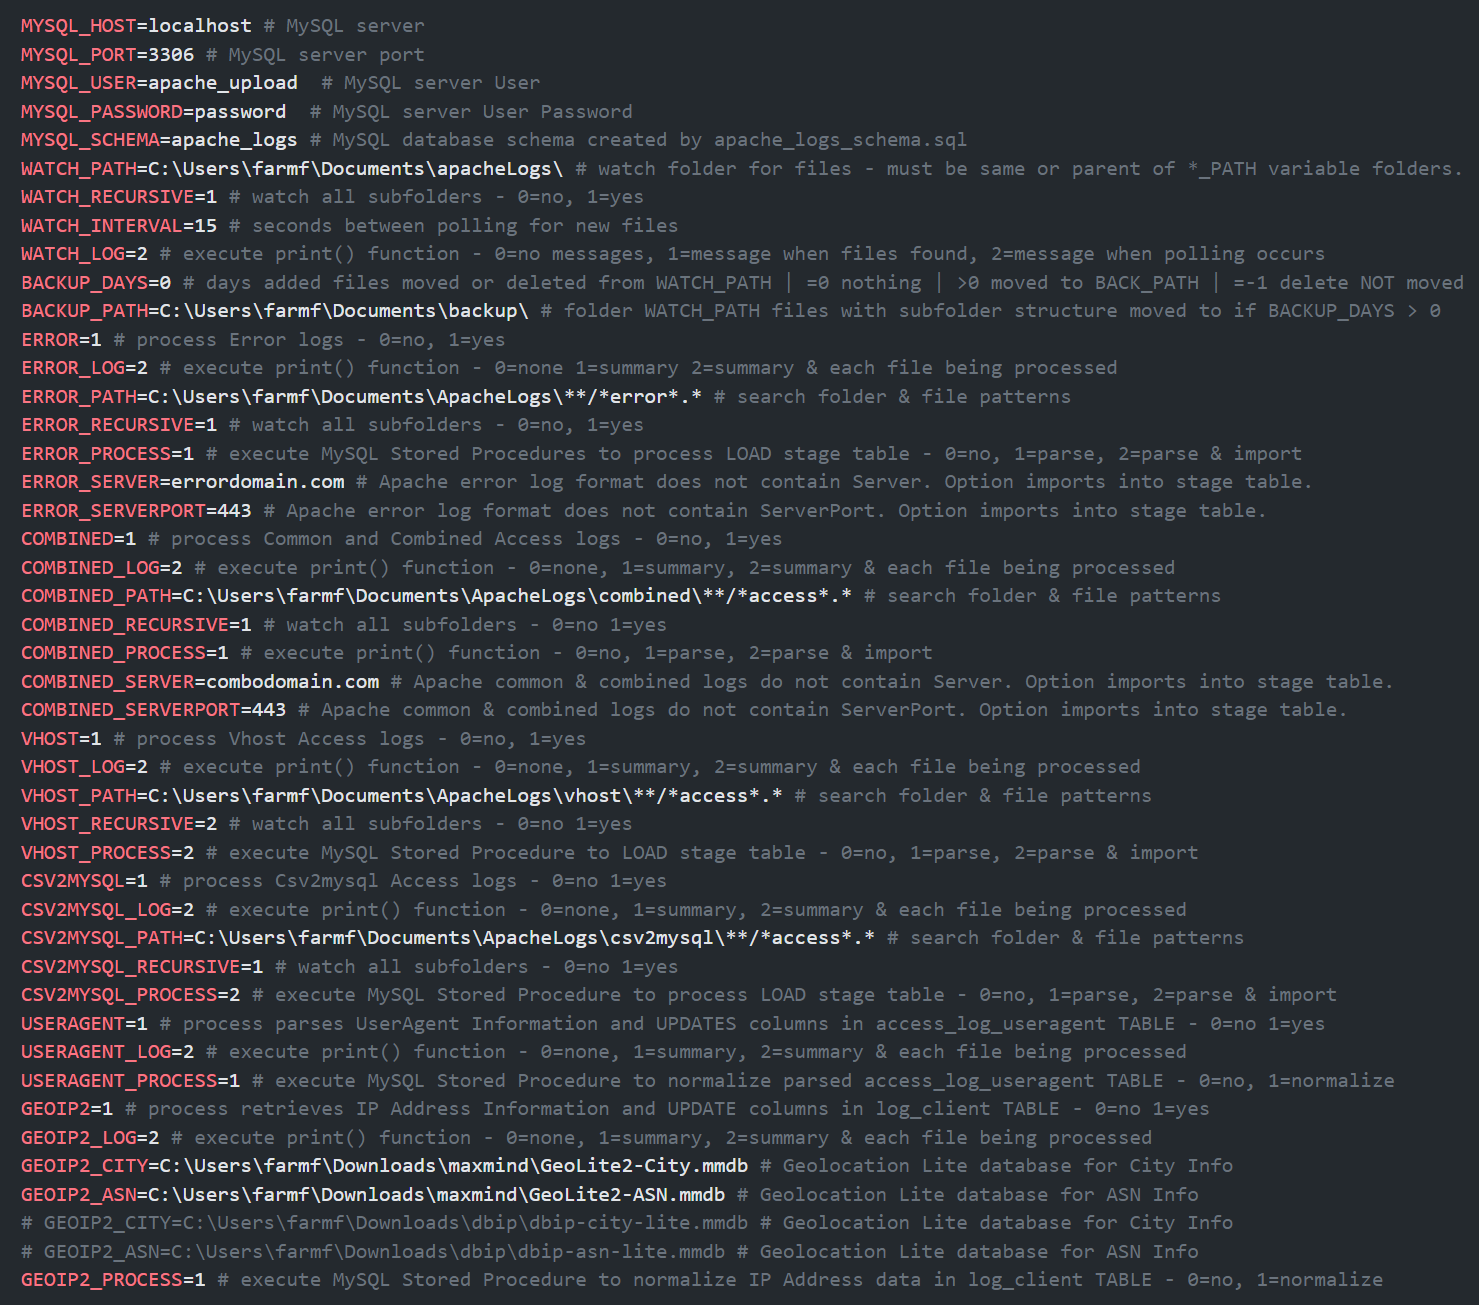
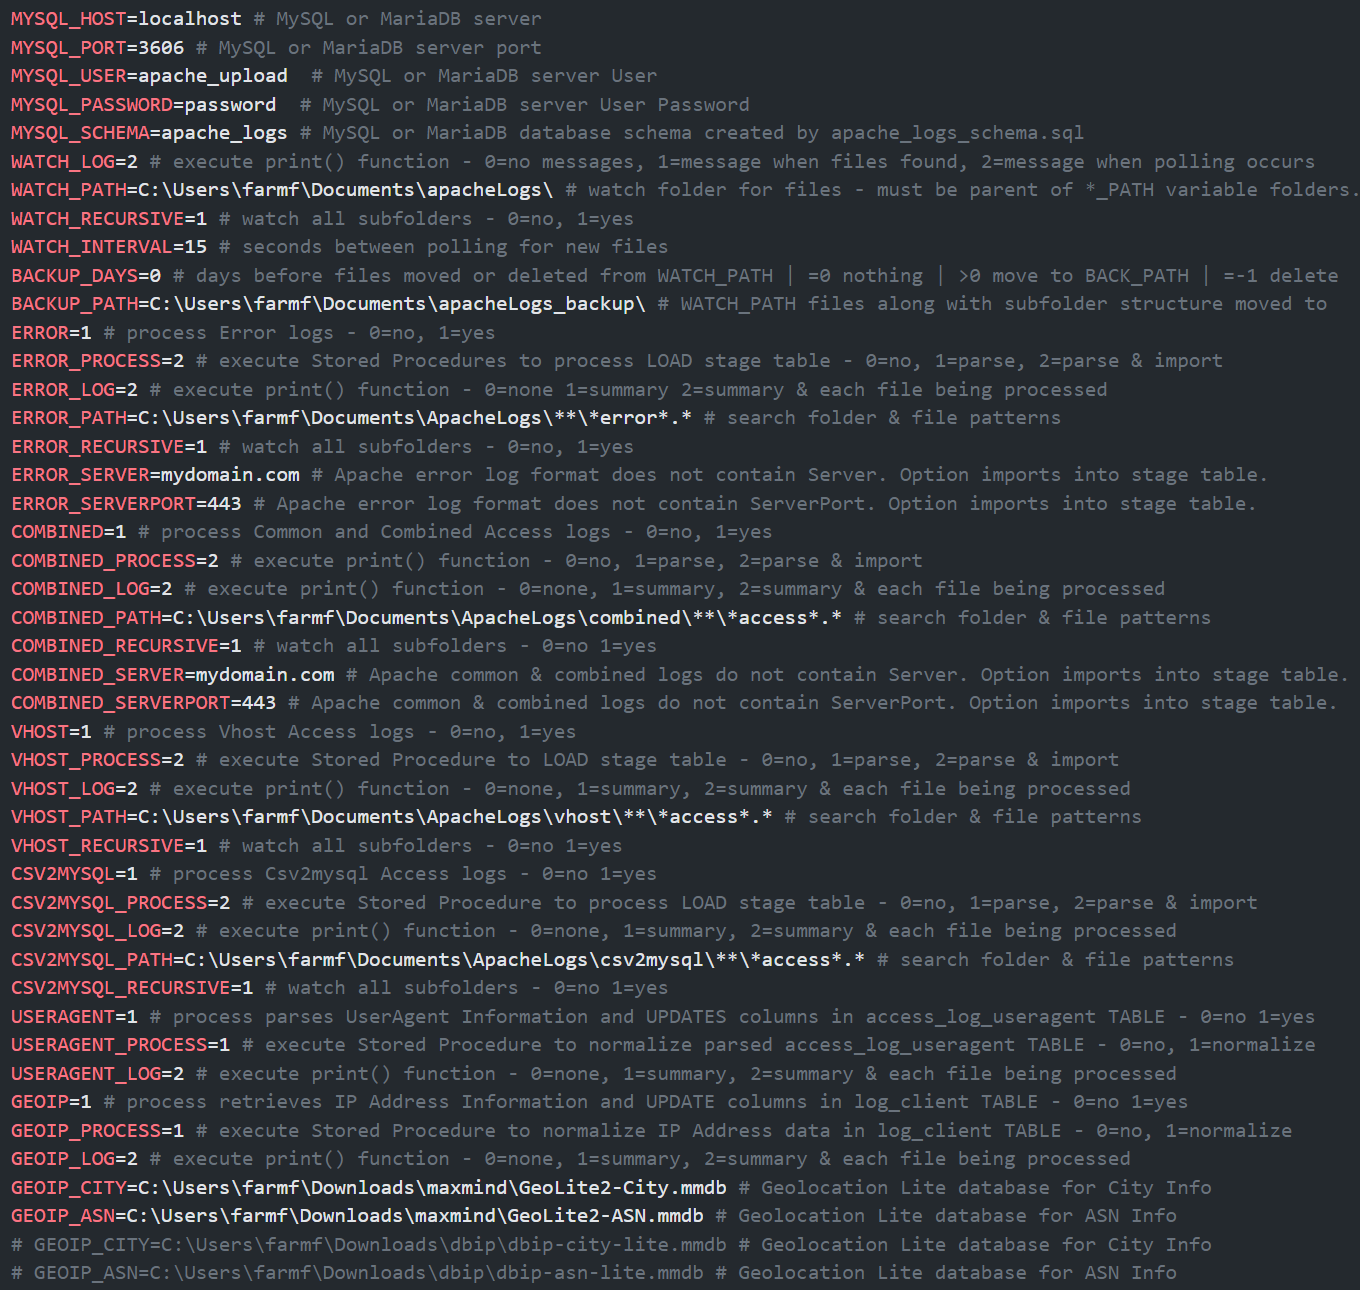
update of 4 files preparing for new release

Changed region(s): [[0.0, 0.0, 0.9882, 0.9922]]

diff --git a/.github/README.md b/.github/README.md
@@ -185,8 +185,8 @@ UPDATE apache_logs.import_file SET server_name='farmfreshsoftware.com', server_p
 UPDATE apache_logs.import_file SET server_name='farmwork.app', server_port=443 WHERE server_name IS NULL AND name LIKE '%farmwork%';
 UPDATE apache_logs.import_file SET server_name='ip255-255-255-255.us-east.com', server_port=443 WHERE server_name IS NULL AND name LIKE '%error%';
 ```
-## Required Python Modules
-Python module links & install command lines for each platform. Single quotes around 'PyMySQL[rsa]' module are required on macOS. The simplest installation option is run the command line under 1. Python Steps below.
+## Required Python Packages
+Python module links & install command lines for each package. Single quotes around 'PyMySQL[rsa]' package are required on macOS. The simplest installation option is run the command line under 1. Python Steps below.
 |Python Package|Installation Command|GitHub Repository|
 |--------------|---------------|------------|
 |[PyMySQL](https://pypi.org/project/PyMySQL/)|python -m pip install PyMySQL[rsa]|[PyMySQL/PyMySQL](https://github.com/PyMySQL/PyMySQL)|
@@ -198,7 +198,7 @@ Python module links & install command lines for each platform. Single quotes aro
 ## Installation Instructions
 Steps make installation quick and straightforward. Application will be ready to import Apache logs on completion.
 
-### 1. Python Steps
+### 1. Python Packages Step
 Install all modules (`requirements.txt` in repository):
 ```
 pip install -r requirements.txt
@@ -221,10 +221,12 @@ Only MySQL server must be configured in `my.ini`, `mysqld.cnf` or `my.cnf` depen
 local-infile=1
 ```
 ### 3. Create Database USER & GRANTS
-To minimize data exposure and breach risks create a Database USER for Python module with GRANTS to only schema objects and privileges required to execute import processes. Replace host from `%` to hostname of database such as `localhost` to only allow USER access from single location. (`mysql_user_and_grants.sql` in repository)
+To minimize data exposure and breach risks create a Database USER for Python module with GRANTS to only schema objects and privileges required to execute import processes. Replace hostname from `%` to hostname of database such as `localhost` to only allow USER access from single location. (`mysql_user_and_grants.sql` in repository)
 ![mysql_user_and_grants.sql in repository](./assets/mysql_user_and_grants.png)
 ### 4. Settings.env Variables
-settings.env with default settings for Windows. Use Back Slashes `\` on Windows due to subfolder searches return them in path results. Both back and front slashes work properly. Make sure correct logFormats are in correct logFormat folders. Application does not detect logFormats. Data will not import properly if folder settings are not correct. (`settings.env` in repository)
+settings.env with default settings for Windows. Use backslash `\` on Windows platform. Subfolder searches return backslashes in path results. Backslash `\` for Windows and forward slash `/` for Linux and MacOS. 
+
+Make sure logFormats are in correct logFormat folders. Application does not detect logFormats. Data will not import properly if folder settings are not correct. (`settings.env` in repository)
 ![settings.env in repository](./assets/settings.png)
 ### 5. Rename settings.env file to .env
 By default, load_dotenv() looks for standard setting file name `.env`. The file is loaded in both `logs2mysql.py` and `watch4files.py` with following line:

diff --git a/.github/INSTALL.md b/.github/INSTALL.md
@@ -1,7 +1,7 @@
 ## Installation Instructions
 The steps are important to make installation painless.
 
-### 1. Python Steps
+### 1. Python Packages Step
 Install all modules (`requirements.txt` in repository):
 ```
 pip install -r requirements.txt
@@ -23,53 +23,55 @@ Only MySQL server must be configured in `my.ini`, `mysqld.cnf` or `my.cnf` depen
 local-infile=1
 ```
 ### 3. Create Database USER and GRANTS
-To minimize data exposure and breach risks create a Database USER for Python module with GRANTS to only schema objects and privileges required to execute import processes. (`mysql_user_and_grants.sql` in repository)
+To minimize data exposure and breach risks create a Database USER for Python module with GRANTS to only schema objects and privileges required to execute import processes. Replace hostname from `%` to hostname of database such as `localhost` to only allow USER access from single location. (`mysql_user_and_grants.sql` in repository)
 ### 4. Settings.env steps
-settings.env with default settings for Windows. Use Back Slashes `\` on Windows due to subfolder searches return them in path results. Both back and front slashes work properly.
+settings.env with default settings for Windows. Use backslash `\` on Windows platform. Subfolder searches return backslashes in path results.
 ```
 MYSQL_HOST=localhost
-MYSQL_PORT=3306
+MYSQL_PORT=3606
 MYSQL_USER=apache_upload
 MYSQL_PASSWORD=password
 MYSQL_SCHEMA=apache_logs
+WATCH_LOG=2
 WATCH_PATH=C:\Users\farmf\Documents\apacheLogs\
 WATCH_RECURSIVE=1
 WATCH_INTERVAL=15
-WATCH_LOG=2
+BACKUP_DAYS=0
+BACKUP_PATH=C:\Users\farmf\Documents\apacheLogs_backup\
 ERROR=1
-ERROR_LOG=2
-ERROR_PATH=C:\Users\farmf\Documents\apacheLogs\**/*error*.*
-ERROR_RECURSIVE=1
 ERROR_PROCESS=2
-ERROR_SERVER=errordomain.com
-ERROR_SERVERPORT=911
+ERROR_LOG=2
+ERROR_PATH=C:\Users\farmf\Documents\ApacheLogs\**\*error*.*
+ERROR_RECURSIVE=1
+ERROR_SERVER=mydomain.com
+ERROR_SERVERPORT=443
 COMBINED=1
-COMBINED_LOG=2
-COMBINED_PATH=C:\Users\farmf\Documents\apacheLogs\combined\**/*access*.*
-COMBINED_RECURSIVE=1
 COMBINED_PROCESS=2
-COMBINED_SERVER=combodomain.com
-COMBINED_SERVERPORT=311
+COMBINED_LOG=2
+COMBINED_PATH=C:\Users\farmf\Documents\ApacheLogs\combined\**\*access*.*
+COMBINED_RECURSIVE=1
+COMBINED_SERVER=mydomain.com
+COMBINED_SERVERPORT=443
 VHOST=1
-VHOST_LOG=2
-VHOST_PATH=C:\Users\farmf\Documents\apacheLogs\vhost\**/*access*.*
-VHOST_RECURSIVE=1
 VHOST_PROCESS=2
+VHOST_LOG=2
+VHOST_PATH=C:\Users\farmf\Documents\ApacheLogs\vhost\**\*access*.*
+VHOST_RECURSIVE=1
 CSV2MYSQL=1
-CSV2MYSQL_LOG=2
-CSV2MYSQL_PATH=C:\Users\farmf\Documents\apacheLogs\csv2mysql\**/*access*.*
-CSV2MYSQL_RECURSIVE=1
 CSV2MYSQL_PROCESS=2
+CSV2MYSQL_LOG=2
+CSV2MYSQL_PATH=C:\Users\farmf\Documents\ApacheLogs\csv2mysql\**\*access*.*
+CSV2MYSQL_RECURSIVE=1
 USERAGENT=1
-USERAGENT_LOG=2
 USERAGENT_PROCESS=1
-GEOIP2=1
-GEOIP2_LOG=2
+USERAGENT_LOG=2
+GEOIP=1
+GEOIP_PROCESS=1
+GEOIP_LOG=2
 GEOIP_CITY=C:\Users\farmf\Downloads\maxmind\GeoLite2-City.mmdb
 GEOIP_ASN=C:\Users\farmf\Downloads\maxmind\GeoLite2-ASN.mmdb
 # GEOIP_CITY=C:\Users\farmf\Downloads\dbip\dbip-city-lite.mmdb
 # GEOIP_ASN=C:\Users\farmf\Downloads\dbip\dbip-asn-lite.mmdb
-GEOIP2_PROCESS=1
 ```
 ### 5. Rename settings.env file to .env
 By default, load_dotenv() looks for standard setting file name `.env`.
